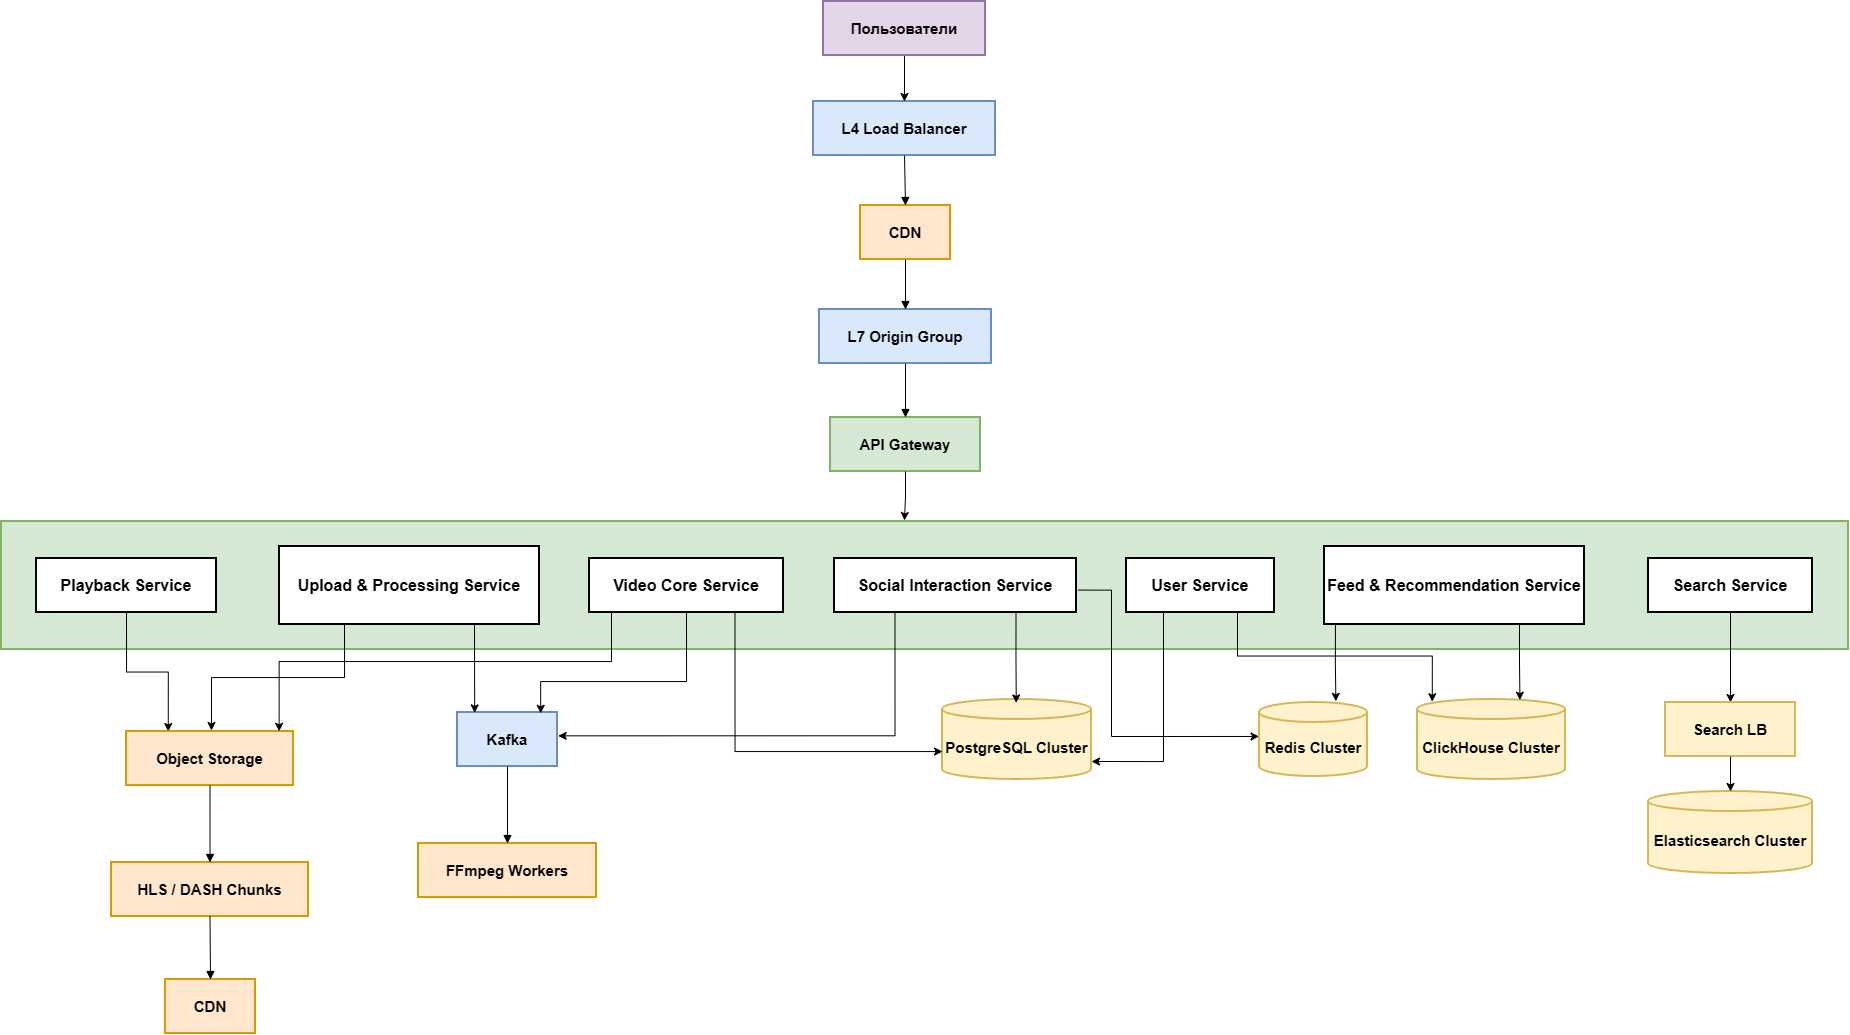
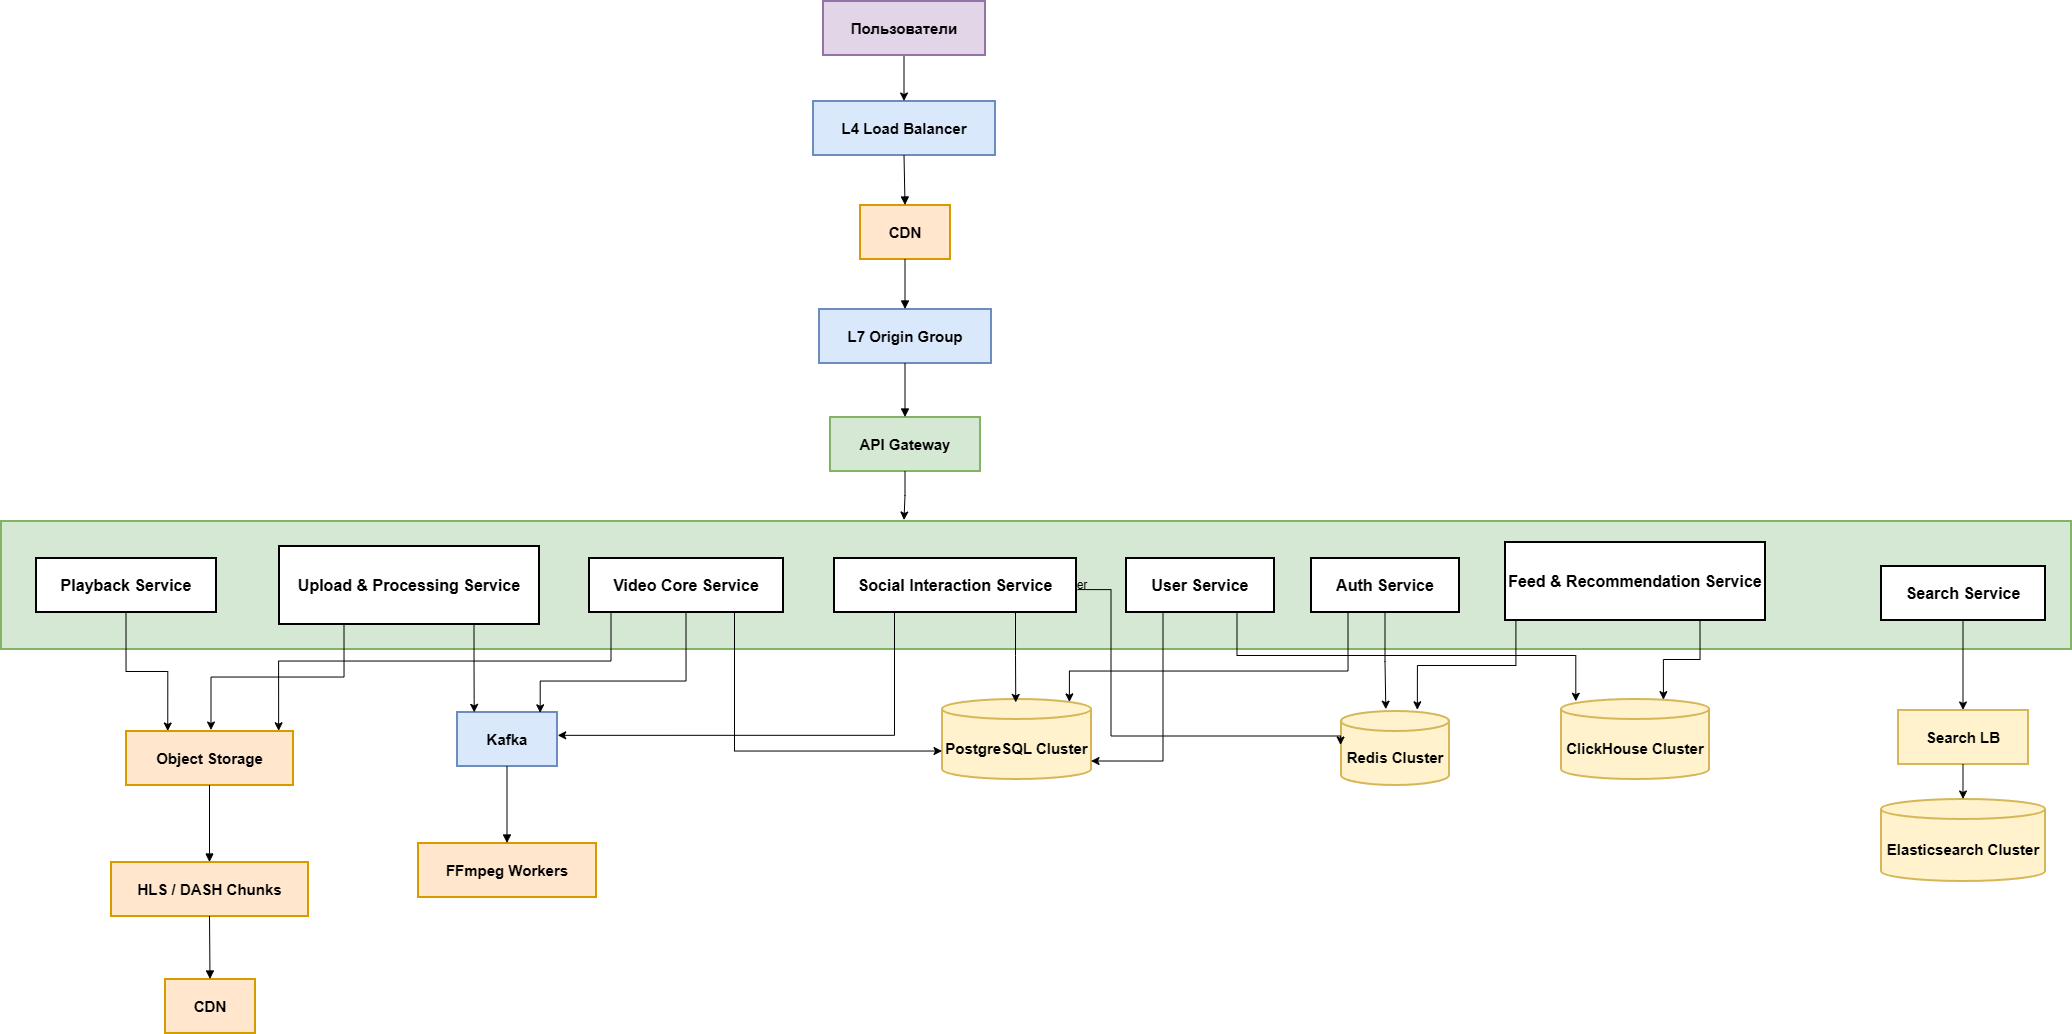
added auth

diff --git a/README.md b/README.md
@@ -906,7 +906,27 @@ Bucket
 4. Видео сортируются по score
 5. Top-N рекомендаций сохраняются в feed пользователя
 
+-----------------
+## Алгоритм авторизации запросов
 
+Авторизация выполняется на уровне API Gateway.
+
+1. Клиент отправляет запрос с JWT access token 
+2. API Gateway извлекает токен
+3. Gateway проверяет:
+   * цифровую подпись JWT
+   * срок действия
+4. Из JWT извлекаются:
+   * user_id
+5. Если проверка успешна:
+   * запрос передается во внутренний сервис
+   * user context прокидывается через internal headers
+6. Backend сервис выполняет бизнес-проверки:
+   * права на редактирование видео
+   * права на комментарии
+   * ограничения доступа
+7. При ошибке авторизации:
+   * возвращается HTTP 401 / 403
 
 # Используемые технологии
 
